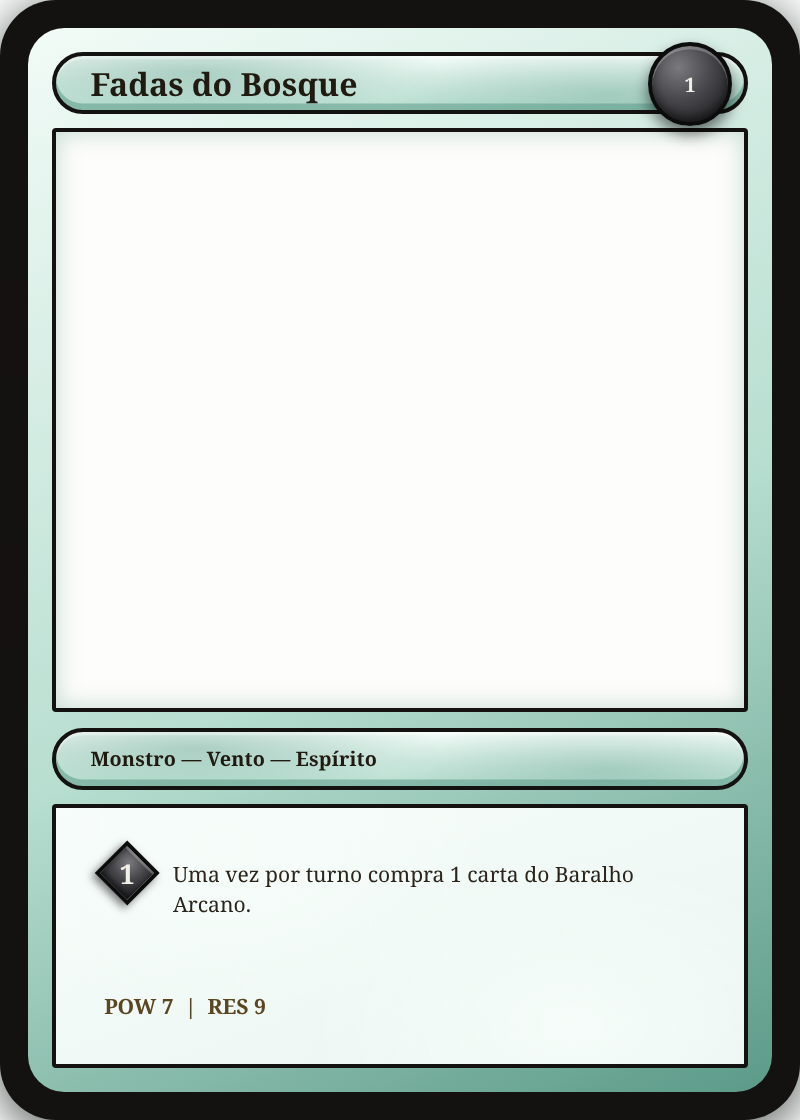
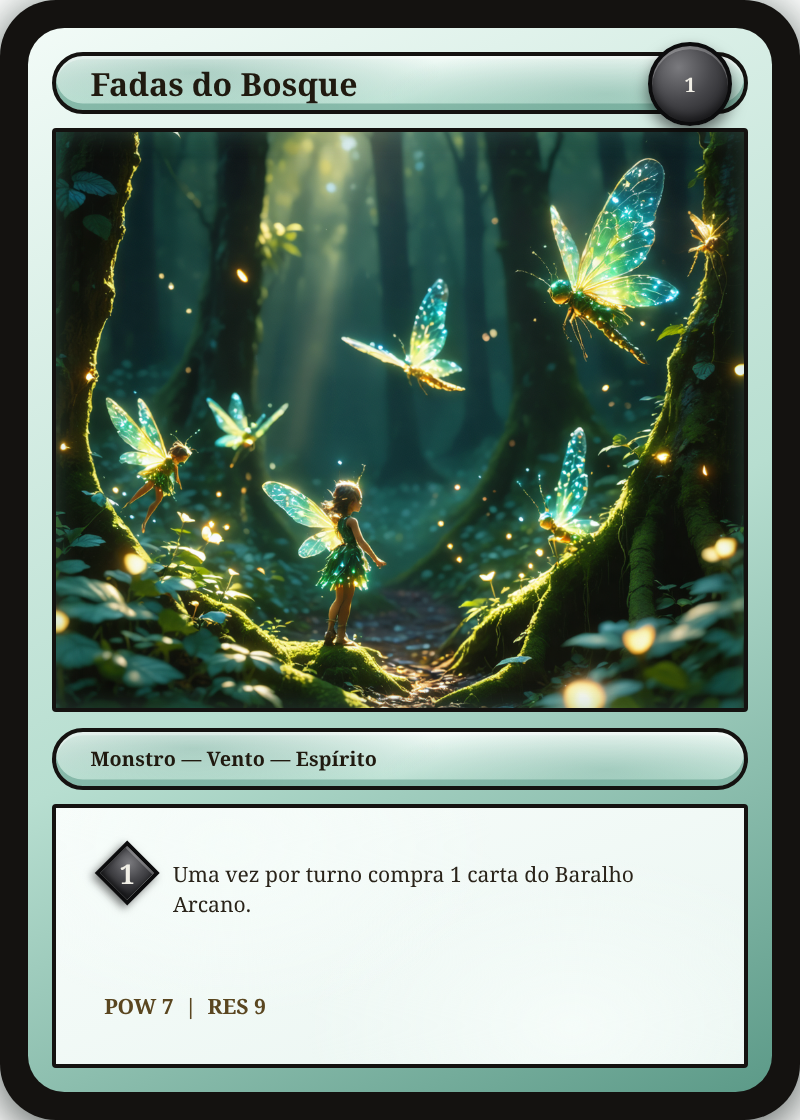
Rebalanceia Custo de Mana dos 20 Heróis/Monstros originais
Ajuste manual do usuário na tabela (Custo de Mana subiu de ~2-5 pra
~3-12 em 18 das 20 cartas Intermediário/Poderoso originais — Merlin e
Shoggoth ficaram intocados, os dois já mais baratos do lote). Reforça
de verdade a curva de poder documentada em GAME_DESIGN.md ("farm antes
do finalizador"): com 5 de Mana inicial, a maioria desses combatentes
agora só cabe depois de vários turnos de Mana acumulada, abrindo
espaço de verdade pros 6 combatentes de Suporte (Custo 1–2,
inalterados) no primeiro turno.

Nenhuma implementação de efeito precisou mudar — Custo de Mana é lido
direto do CSV via ManaCost (game/loader.py / gerar_dados_webgame.py),
nenhuma carta tem lógica que depende do próprio valor numérico. Só
precisou regenerar os artefatos derivados:

- webgame/data.js: regenerado do CSV.
- cards/*.png: as 18 cartas re-renderizadas mostram o novo emblema de
  custo; as 6 cartas de Suporte (sem arte própria até agora) ganharam
  arte de verdade (arts/*.png apareceu de um processo externo, não
  fui eu) e foram re-renderizadas com ela.
- game/demo_sim.py, game/demo_mecanismos.py: os dois criavam um
  combatente com a Mana inicial (5) sem checar o Custo de Mana antes —
  funcionava por sorte com os custos antigos, mas quebrava
  (AcaoInvalida: Mana insuficiente) sempre que o Panteão sorteado
  calhava de um combatente caro primeiro. Corrigido dando Mana de
  sobra (20) antes de invocar nesses dois scripts de demo — bug
[…]

diff --git a/webgame/data.js b/webgame/data.js
@@ -5,7 +5,7 @@ const CARTAS = [
     "arquivo": "../cards/Rei_Arthur.png",
     "tipo": "Herói",
     "elemento": "Vento",
-    "custoMana": 3,
+    "custoMana": 9,
     "resistencia": 16,
     "combate": 18,
     "efeito": "Uma vez por turno ganha +4 de Combate neste turno.",
@@ -17,7 +17,7 @@ const CARTAS = [
     "arquivo": "../cards/Beowulf.png",
     "tipo": "Herói",
     "elemento": "Terra",
-    "custoMana": 2,
+    "custoMana": 6,
     "resistencia": 18,
     "combate": 16,
     "efeito": "Uma vez por turno recupera 4 pontos de Resistência.",
@@ -29,7 +29,7 @@ const CARTAS = [
     "arquivo": "../cards/Odisseu.png",
     "tipo": "Herói",
     "elemento": "Água",
-    "custoMana": 3,
+    "custoMana": 4,
     "resistencia": 14,
     "combate": 14,
     "efeito": "Uma vez por turno anula a próxima Maldição do oponente.",
@@ -41,7 +41,7 @@ const CARTAS = [
     "arquivo": "../cards/Sigurd.png",
     "tipo": "Herói",
     "elemento": "Vento",
-    "custoMana": 3,
+    "custoMana": 7,
     "resistencia": 15,
     "combate": 17,
     "efeito": "Uma vez por turno prepara um bônus: se atacar um Monstro antes do fim do turno, dobra o dano desse ataque.",
@@ -53,7 +53,7 @@ const CARTAS = [
     "arquivo": "../cards/Joana_d'Arc.png",
     "tipo": "Herói",
     "elemento": "Fogo",
-    "custoMana": 4,
+    "custoMana": 3,
     "resistencia": 17,
     "combate": 12,
     "efeito": "Uma vez por turno cura totalmente o seu combatente em campo.",
@@ -65,7 +65,7 @@ const CARTAS = [
     "arquivo": "../cards/Gilgamesh.png",
     "tipo": "Herói",
     "elemento": "Terra",
-    "custoMana": 3,
+    "custoMana": 5,
     "resistencia": 19,
     "combate": 15,
     "efeito": "Uma vez por turno compra 1 carta do Baralho Arcano.",
@@ -77,7 +77,7 @@ const CARTAS = [
     "arquivo": "../cards/Aquiles.png",
     "tipo": "Herói",
     "elemento": "Vento",
-    "custoMana": 2,
+    "custoMana": 9,
     "resistencia": 15,
     "combate": 19,
     "efeito": "Uma vez por turno ataca duas vezes, com o dano de cada ataque reduzido à metade. Conta como o ataque do turno.",
@@ -89,7 +89,7 @@ const CARTAS = [
     "arquivo": "../cards/Atalanta.png",
     "tipo": "Herói",
     "elemento": "Vento",
-    "custoMana": 2,
+    "custoMana": 7,
     "resistencia": 12,
     "combate": 16,
     "efeito": "Uma vez por turno causa 5 de dano direto ao oponente, ignorando combate.",
@@ -101,7 +101,7 @@ const CARTAS = [
     "arquivo": "../cards/Cu_Chulainn.png",
     "tipo": "Herói",
     "elemento": "Terra",
-    "custoMana": 3,
+    "custoMana": 7,
     "resistencia": 16,
     "combate": 17,
     "efeito": "Uma vez por turno: se for derrotado atacando antes do fim do turno, o combatente ativo do oponente também é destruído.",
@@ -125,7 +125,7 @@ const CARTAS = [
     "arquivo": "../cards/Cthulhu.png",
     "tipo": "Monstro",
     "elemento": "Água",
-    "custoMana": 4,
+    "custoMana": 6,
     "resistencia": 20,
     "combate": 16,
     "efeito": "Uma vez por turno o oponente descarta 2 cartas aleatórias da mão.",
@@ -137,7 +137,7 @@ const CARTAS = [
     "arquivo": "../cards/Fenrir.png",
     "tipo": "Monstro",
     "elemento": "Fogo",
-    "custoMana": 3,
+    "custoMana": 8,
     "resistencia": 18,
     "combate": 19,
     "efeito": "Uma vez por turno destrói a carta de Domínio ativa no campo, seja de quem for.",
@@ -149,7 +149,7 @@ const CARTAS = [
     "arquivo": "../cards/Jörmungandr.png",
     "tipo": "Monstro",
     "elemento": "Água",
-    "custoMana": 3,
+    "custoMana": 8,
     "resistencia": 19,
     "combate": 15,
     "efeito": "Uma vez por turno causa 3 de dano ao combatente ativo do oponente, e mais 3 no início de cada turno do dono dele até ele ser destruído.",
@@ -161,7 +161,7 @@ const CARTAS = [
     "arquivo": "../cards/Tífon.png",
     "tipo": "Monstro",
     "elemento": "Vento",
-    "custoMana": 4,
+    "custoMana": 8,
     "resistencia": 17,
     "combate": 18,
     "efeito": "Uma vez por turno retorna o combatente ativo do oponente para o Panteão dele.",
@@ -185,7 +185,7 @@ const CARTAS = [
     "arquivo": "../cards/Surtur.png",
     "tipo": "Monstro",
     "elemento": "Fogo",
-    "custoMana": 5,
+    "custoMana": 12,
     "resistencia": 16,
     "combate": 20,
     "efeito": "Uma vez por turno causa 10 de dano a todos os combatentes ativos em campo, incluindo o seu.",
@@ -197,7 +197,7 @@ const CARTAS = [
     "arquivo": "../cards/Wendigo.png",
     "tipo": "Monstro",
     "elemento": "Vento",
-    "custoMana": 2,
+    "custoMana": 7,
     "resistencia": 14,
     "combate": 16,
     "efeito": "Uma vez por turno rouba até 2 de Mana do oponente.",
@@ -209,7 +209,7 @@ const CARTAS = [
     "arquivo": "../cards/Nyarlathotep.png",
     "tipo": "Monstro",
     "elemento": "Água",
-    "custoMana": 3,
+    "custoMana": 4,
     "resistencia": 15,
     "combate": 14,
     "efeito": "Uma vez por turno revela as Maldições viradas para baixo do oponente e destrói uma escolhida.",
@@ -221,7 +221,7 @@ const CARTAS = [
     "arquivo": "../cards/Minotauro.png",
     "tipo": "Monstro",
     "elemento": "Terra",
-    "custoMana": 2,
+    "custoMana": 5,
     "resistencia": 18,
     "combate": 15,
     "efeito": "Uma vez por turno impede o combatente ativo do oponente de usar a própria Habilidade neste turno.",
@@ -233,7 +233,7 @@ const CARTAS = [
     "arquivo": "../cards/Quimera.png",
     "tipo": "Monstro",
     "elemento": "Fogo",
-    "custoMana": 2,
+    "custoMana": 8,
     "resistencia": 16,
     "combate": 17,
     "efeito": "Uma vez por turno ganha +2 de Combate neste turno se o combatente ativo do oponente for do elemento Terra.",

diff --git a/game/demo_sim.py b/game/demo_sim.py
@@ -68,6 +68,7 @@ def main() -> None:
     escolhido = p1_panteao_ids[0]
     print(f"  escolhendo {ctrl.nome_da_carta(escolhido)} (custo "
           f"{ctrl.world.get_component(escolhido, __import__('game.components', fromlist=['ManaCost']).ManaCost).valor})")
+    ctrl.players[1].mana = 20  # cobre até o Custo de Mana mais caro do Panteão sorteado
     ctrl.submeter_acao(SummonAction(player_id=1, card=escolhido))
 
     print("\n=== Fase Principal: (nada a fazer neste exemplo) ===")

diff --git a/game/demo_mecanismos.py b/game/demo_mecanismos.py
@@ -80,6 +80,7 @@ def main() -> None:
     print("\n=== 3) Domínio / Encantamento / Maldição ===")
     ctrl.avancar_fase()  # SAQUE -> INVOCACAO
     algum = ctrl.panteoes[1].restantes()[0]
+    ctrl.players[1].mana = 20  # cobre até o Custo de Mana mais caro do Panteão sorteado
     ctrl.submeter_acao(SummonAction(player_id=1, card=algum))
     ctrl.avancar_fase()  # INVOCACAO -> PRINCIPAL
 
